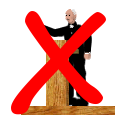
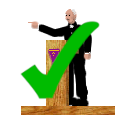
Tick rather than cross

Changed region(s): [[0.075, 0.075, 0.9, 0.975]]

diff --git a/src/Page.js b/src/Page.js
@@ -47,7 +47,7 @@ export default function Page(props) {
         </Grid>
         <Grid item>
           <Button variant="contained"
-                  color={hasBingo(name) ? 'secondary' : 'primary'}
+                  color={hasBingo(name) ? 'success' : 'primary'}
                   size="large"
                   onClick={() => {
                     toggleBingo(name)
